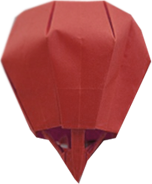
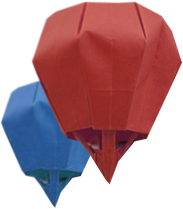
Blog title

diff --git a/app/_scss/main.scss b/app/_scss/main.scss
@@ -495,6 +495,7 @@ header {
   background: #54898C;
   position: relative;
   overflow-x: hidden;
+  padding-bottom: 186px;
 
   .triangle {
     position: absolute;
@@ -563,14 +564,22 @@ header {
 
   .title {
     position: absolute;
-    top: 0;
+    top: 38px;
     left: 50%;
-    margin-left: -300px;
+    margin-left: -12%;
     text-align: center;
-    background: url('/images/hompage/blog/ballons.png') no-repeat 42% 100px;
+    background: url('/images/hompage/blog/ballons.png') no-repeat 0 100px;
     height: 350px;
     width: 400px;
     padding-top: 210px;
     overflow: hidden;
+
+    h2 {
+      font-family: OstrichSansMedium;
+      font-size: 81px;
+      line-height: 57px;
+      margin-left: 30px;
+
+    }
   }
 }

diff --git a/app/index.html b/app/index.html
@@ -278,7 +278,6 @@ title: Your Project. The Gizra Way
 
   <div class="title">
     <h2>Blog</h2>
-    <span>Recent posts</span>
   </div>
 
   <div class="container">
